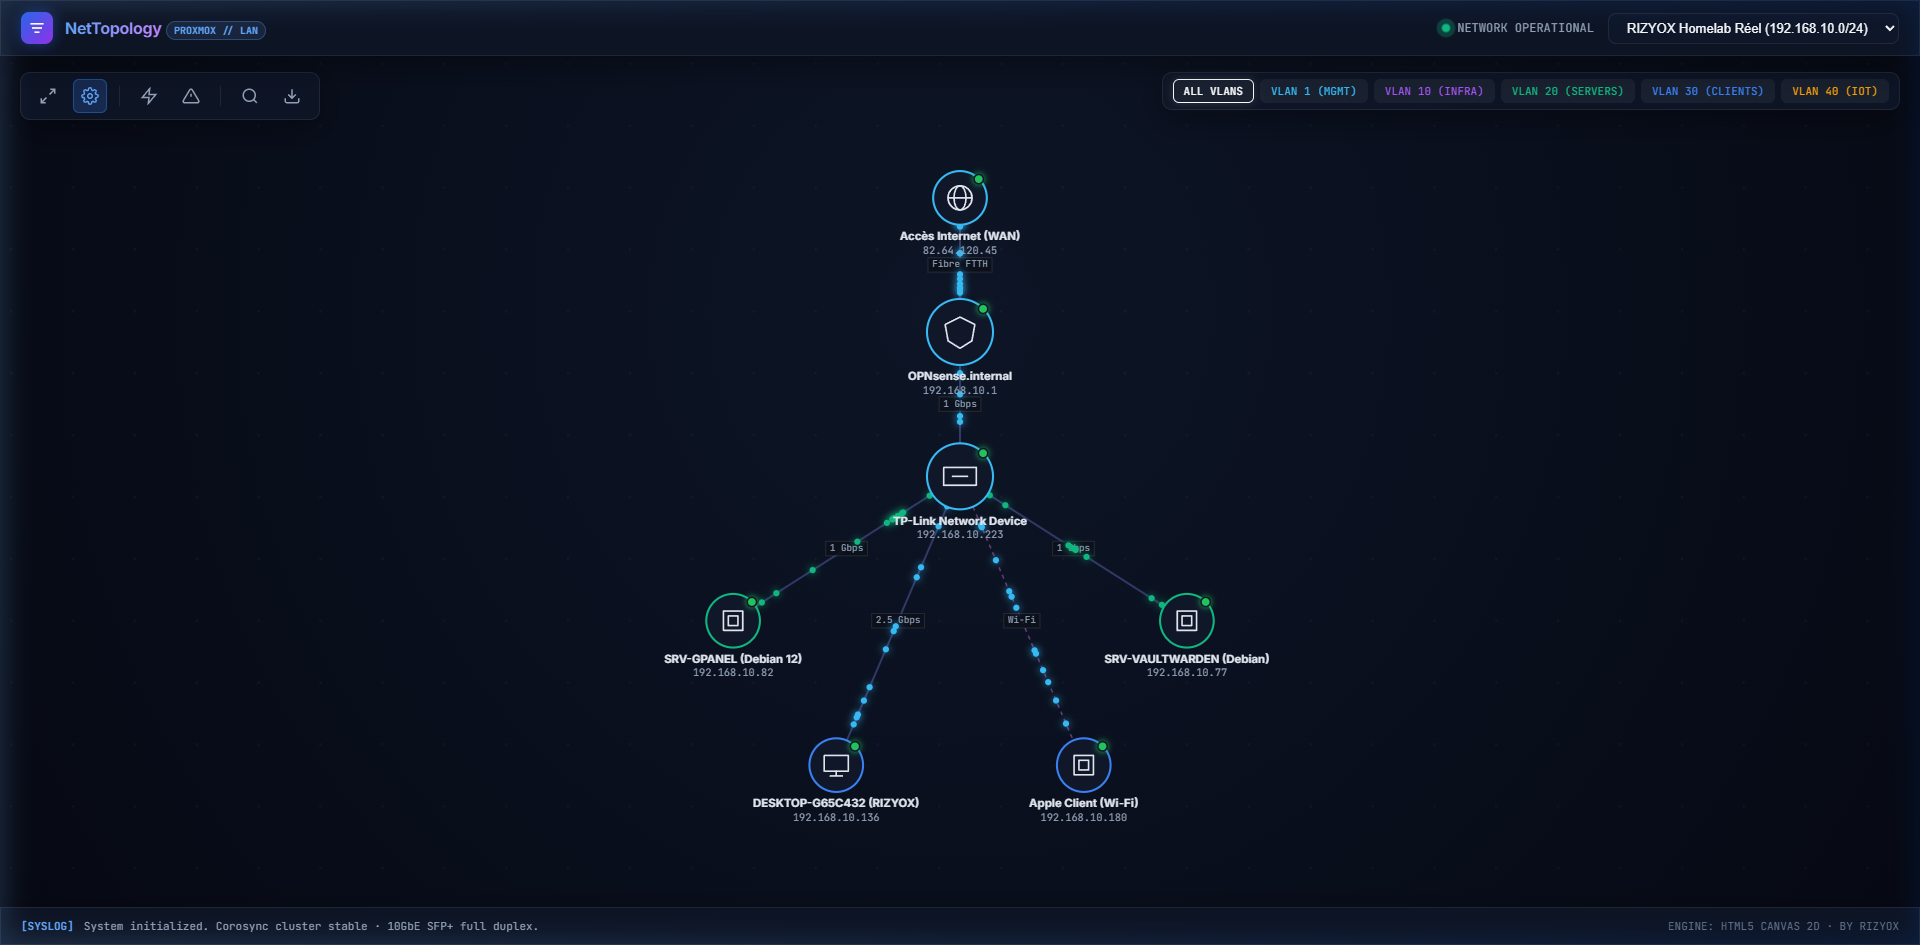
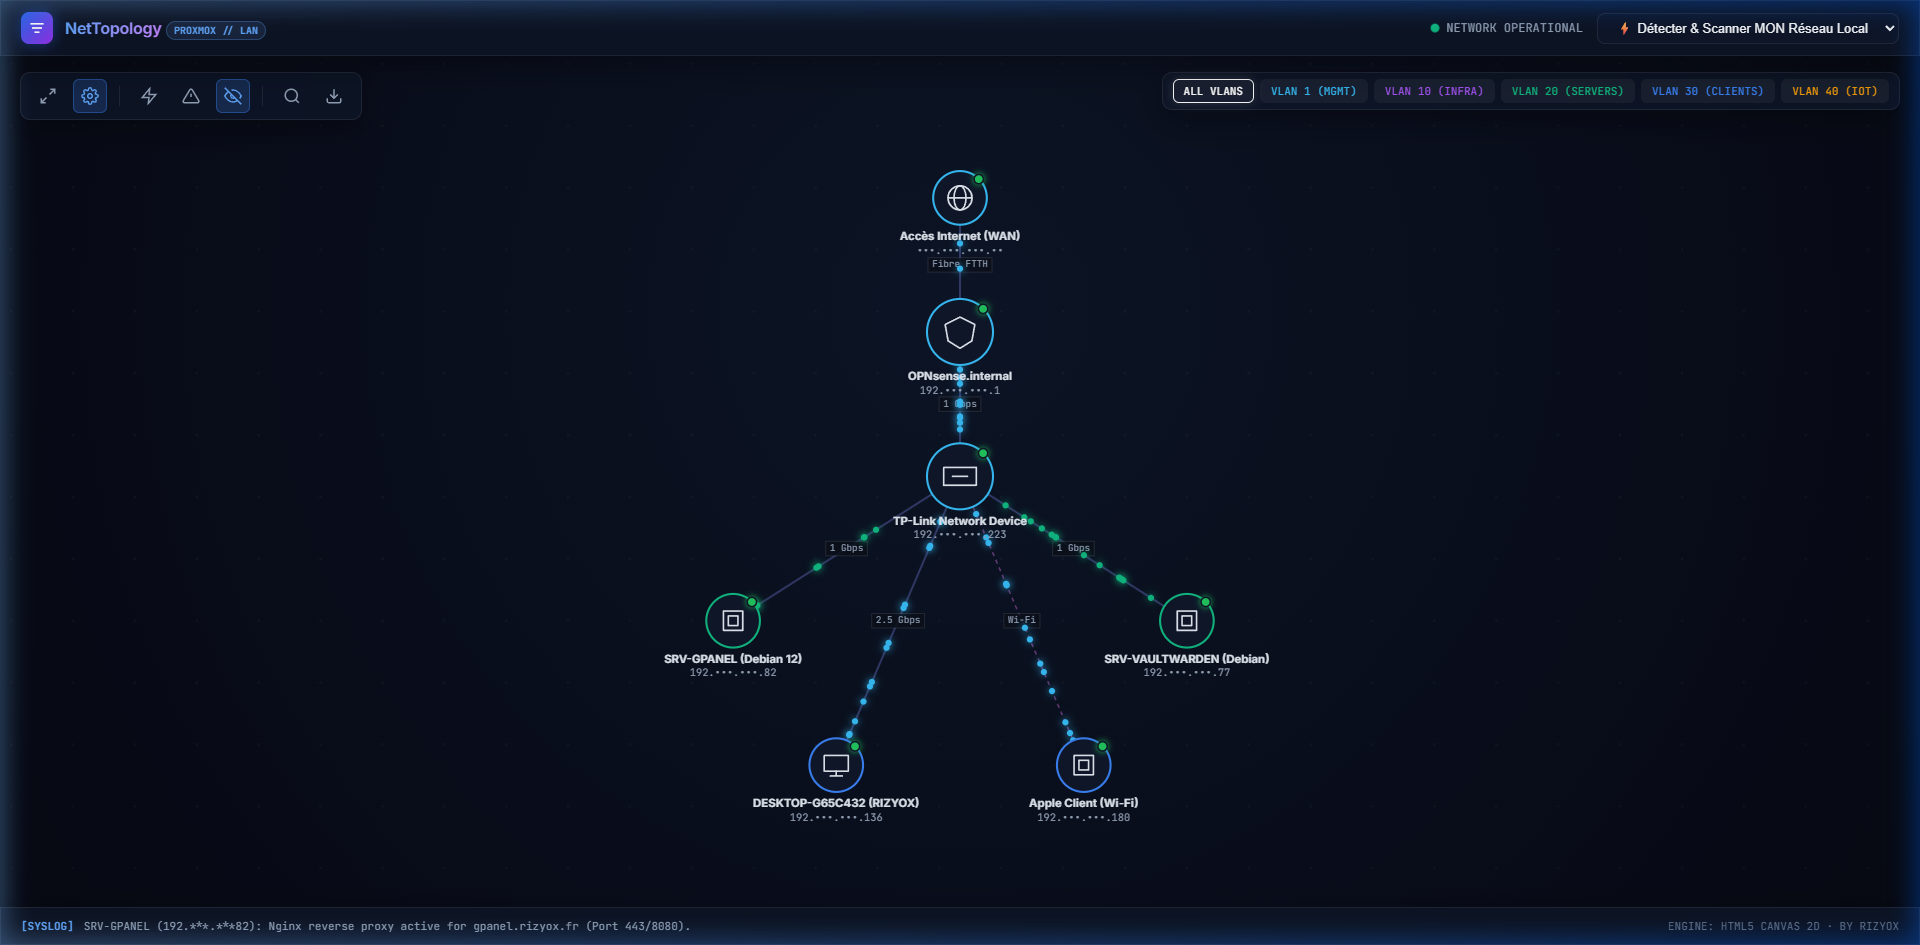
fix: mask IPs in syslog/inspector when privacy mode active + update preview screenshot

diff --git a/lan-topology-visualizer/app.js b/lan-topology-visualizer/app.js
@@ -218,14 +218,17 @@ document.addEventListener('DOMContentLoaded', () => {
     isPrivacyActive = !isPrivacyActive;
     btnPrivacy.classList.toggle('active', isPrivacyActive);
     engine.privacyMode = isPrivacyActive;
+    // Refresh inspector if open
+    if (activeNode) showNodeInspector(activeNode);
     addLog(isPrivacyActive ? '🔒 MODE CONFIDENTIALITÉ ACTIVÉ : Adresses IP masquées.' : 'Mode confidentialité désactivé.');
   });
 
   // Node Inspector Show / Hide
   function showNodeInspector(node) {
     activeNode = node;
+    const displayIp = isPrivacyActive ? maskIpsInText(node.ip) : node.ip;
     document.getElementById('insp-name').textContent = node.label;
-    document.getElementById('insp-ip').textContent = node.ip;
+    document.getElementById('insp-ip').textContent = displayIp;
     document.getElementById('insp-mac').textContent = node.mac || 'N/A';
     document.getElementById('insp-vlan').textContent = `VLAN ${node.vlan}`;
     document.getElementById('insp-status').textContent = (node.status || 'ONLINE').toUpperCase();
@@ -240,7 +243,7 @@ document.addEventListener('DOMContentLoaded', () => {
       servicesContainer.appendChild(tag);
     });
 
-    pingResults.textContent = `Host prêt: ${node.ip}`;
+    pingResults.textContent = `Host prêt: ${displayIp}`;
     inspector.classList.add('open');
   }
 
@@ -335,9 +338,15 @@ document.addEventListener('DOMContentLoaded', () => {
     'Apple Device (192.168.10.180): DHCP lease renewed by OPNsense (192.168.10.1).'
   ];
 
+  function maskIpsInText(text) {
+    // Replace IPv4 addresses with masked version: 192.168.10.82 → 192.***.***82
+    return text.replace(/(\d{1,3})\.(\d{1,3})\.(\d{1,3})\.(\d{1,3})/g, (_, a, b, c, d) => `${a}.***.***${d}`);
+  }
+
   let logIndex = 0;
   setInterval(() => {
-    logText.textContent = syslogMessages[logIndex % syslogMessages.length];
+    const msg = syslogMessages[logIndex % syslogMessages.length];
+    logText.textContent = isPrivacyActive ? maskIpsInText(msg) : msg;
     logIndex++;
   }, 4500);
 
